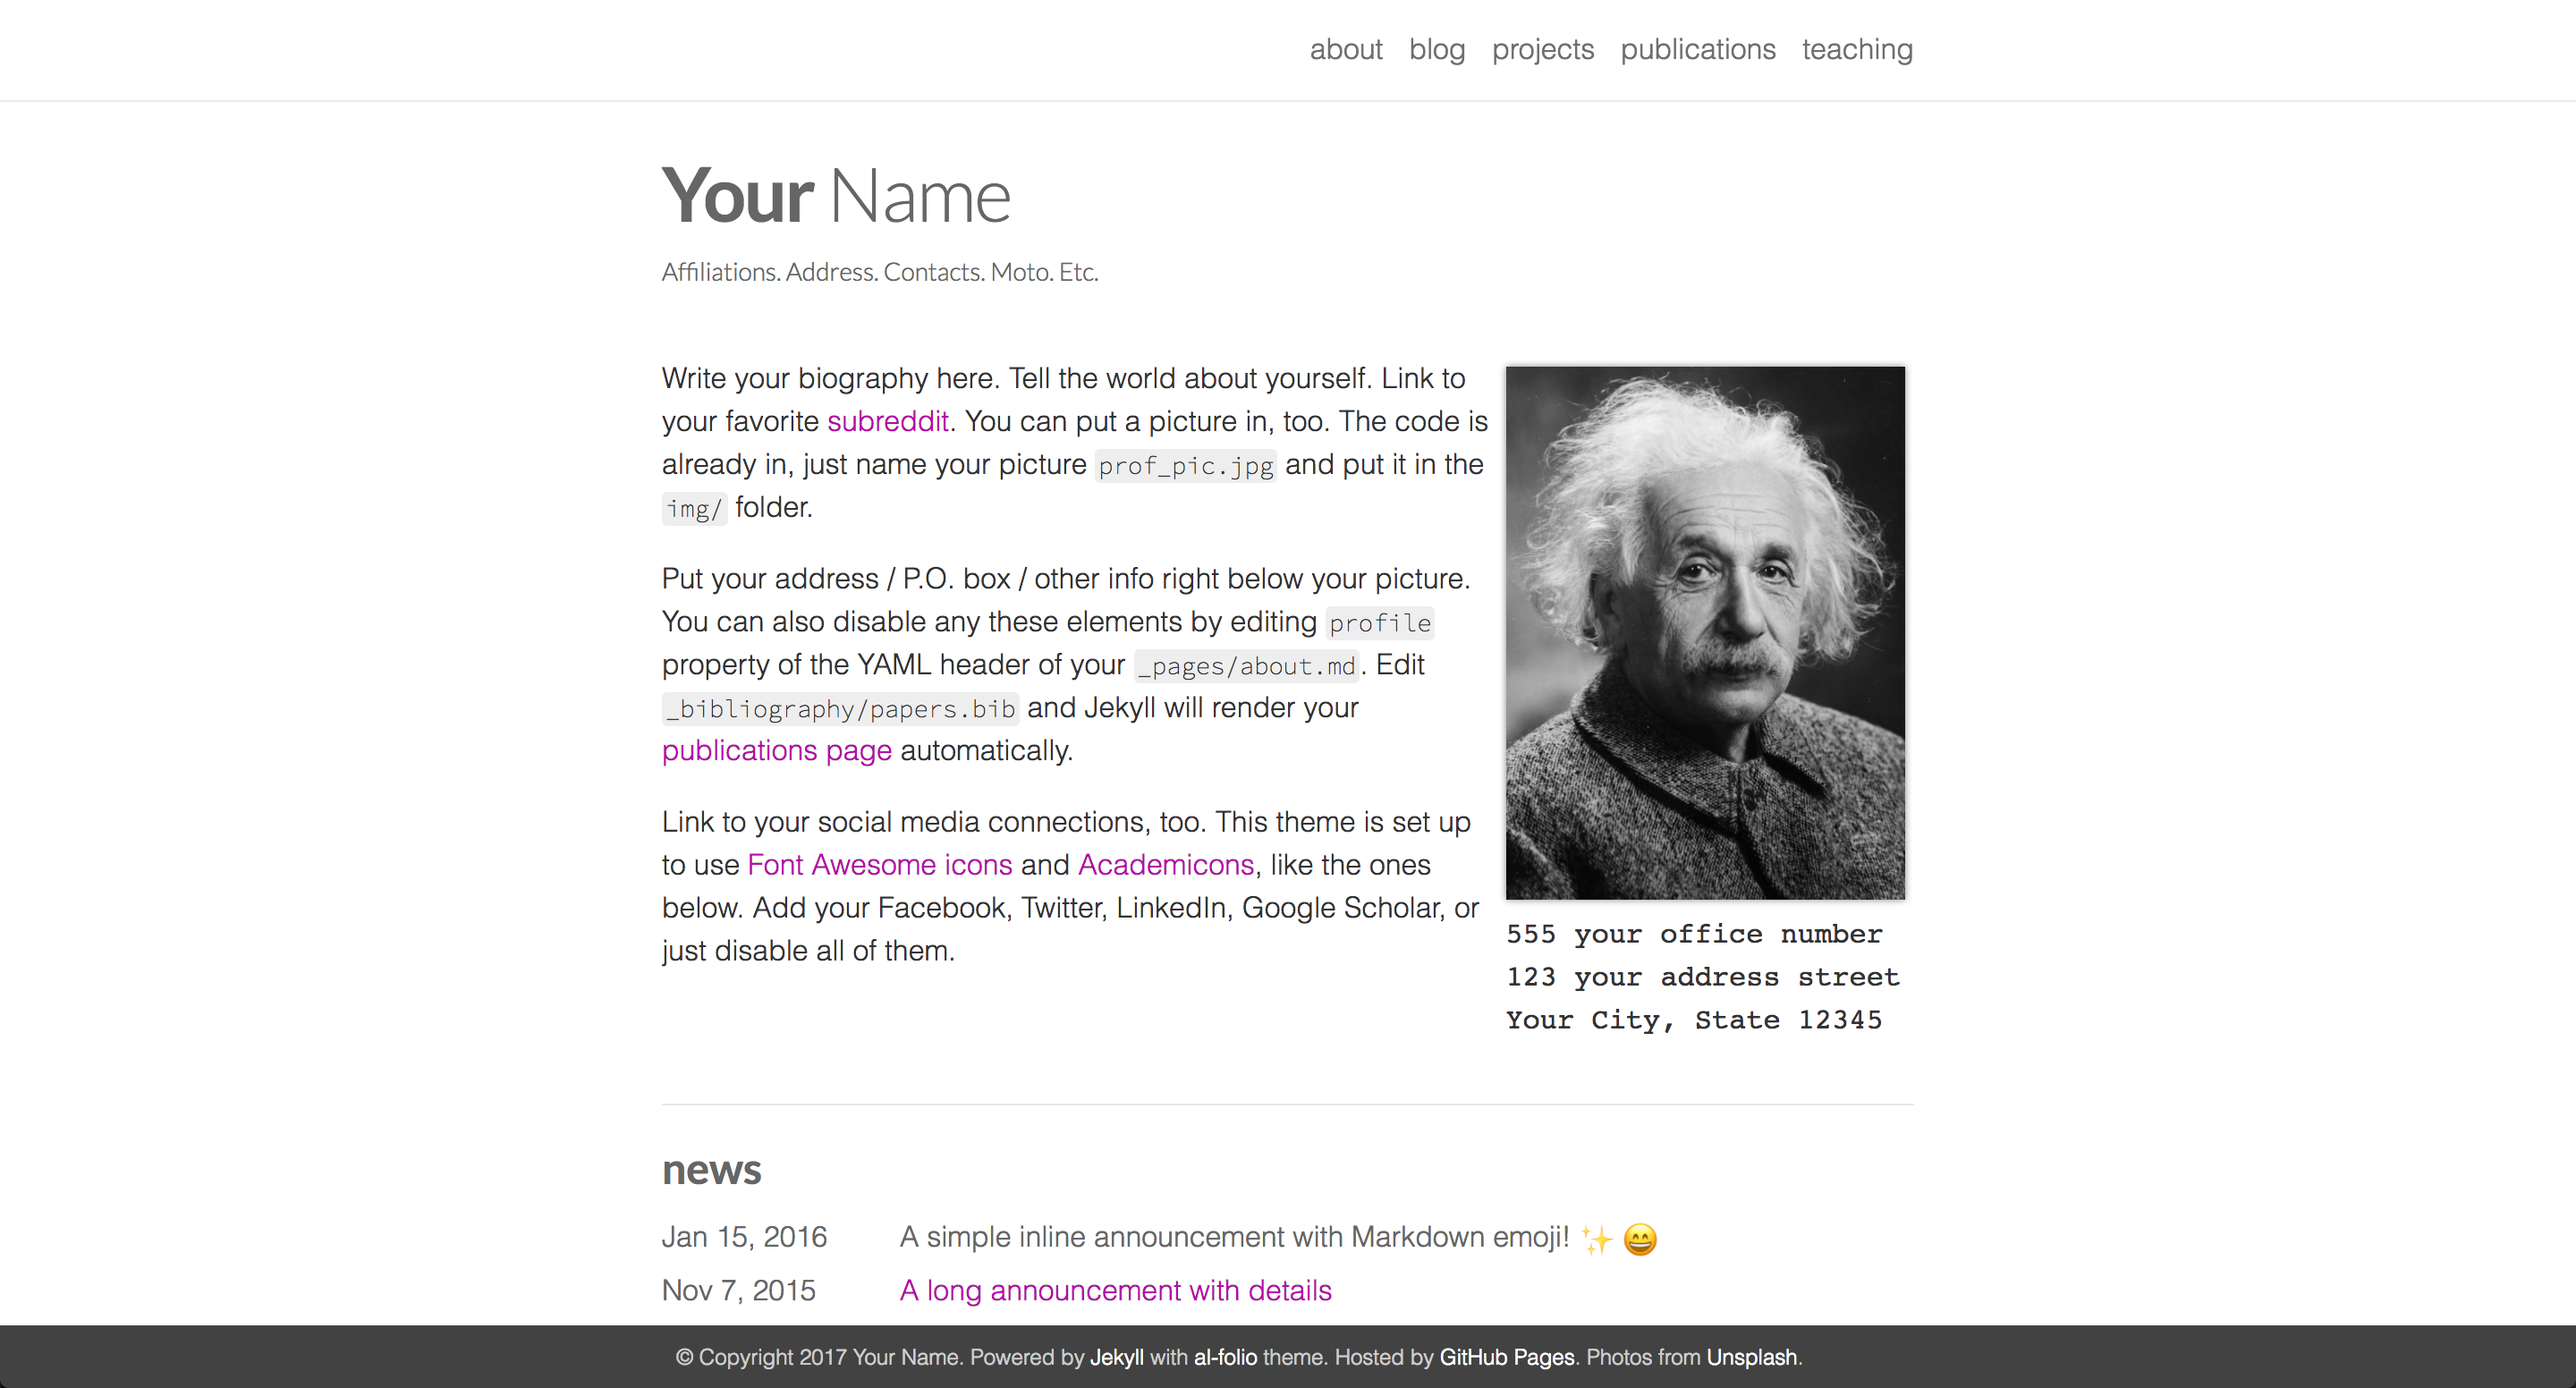
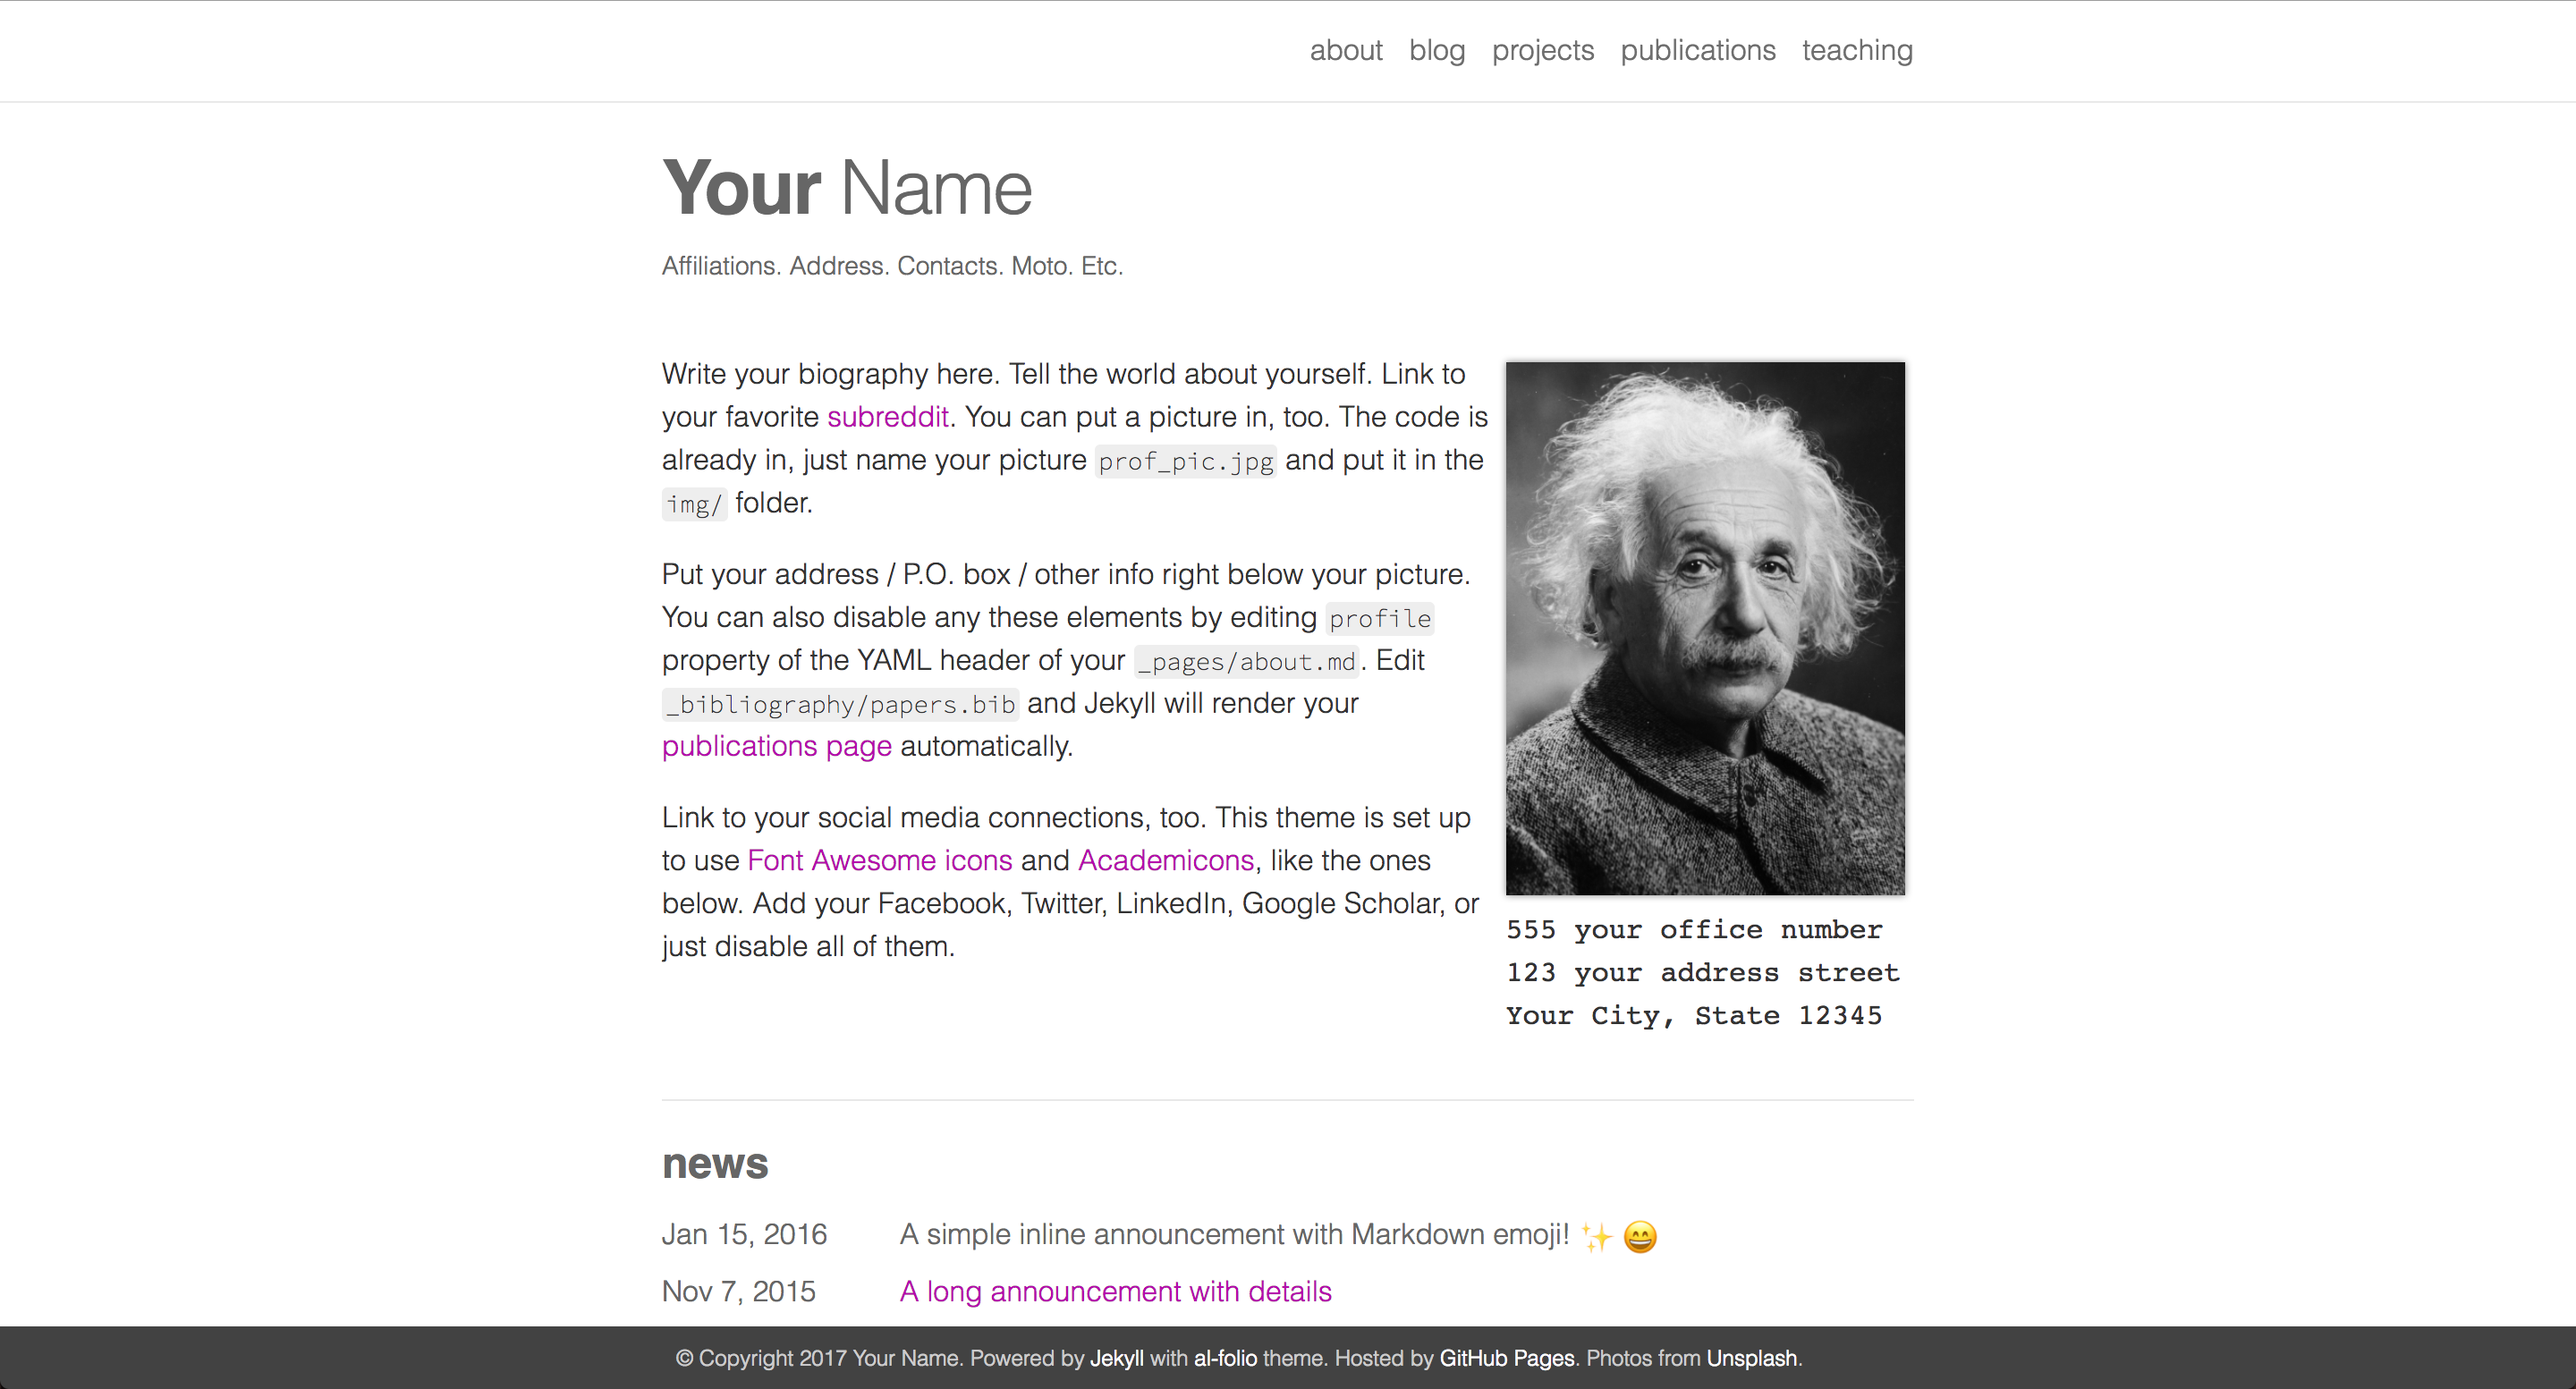
Minor style fixes

diff --git a/_sass/_variables.scss b/_sass/_variables.scss
@@ -7,7 +7,7 @@ $small-font-size:  0.875rem !default;
 $bold-font-weight: bold !default;
 $font-family: Helvetica, Arial, sans-serif !default;
 $line-height: 1.5 !default;
-$heading-font-family: 'Lato', 'Helvetica Neue', Helvetica, sans-serif !default;
+$heading-font-family: Helvetica, sans-serif !default;
 $heading-font-weight: 900 !default;
 $heading-line-height: 1.25 !default;
 $monospace-font-family: 'Source Code Pro', Consolas, monospace !default;

diff --git a/_sass/_profile.scss b/_sass/_profile.scss
@@ -30,7 +30,7 @@
 
         tr { text-align: left; }
         td {
-            padding: 5px 0;
+            padding: 6px 0;
             vertical-align: top;
             border: none;
         }

diff --git a/_sass/_posts.scss b/_sass/_posts.scss
@@ -17,6 +17,7 @@
     letter-spacing: -1px;
     line-height: 1;
     margin-bottom: 10px;
+    margin-top: 0;
     // @include media-query($on-laptop) {
     //     font-size: 36px;
     // }
